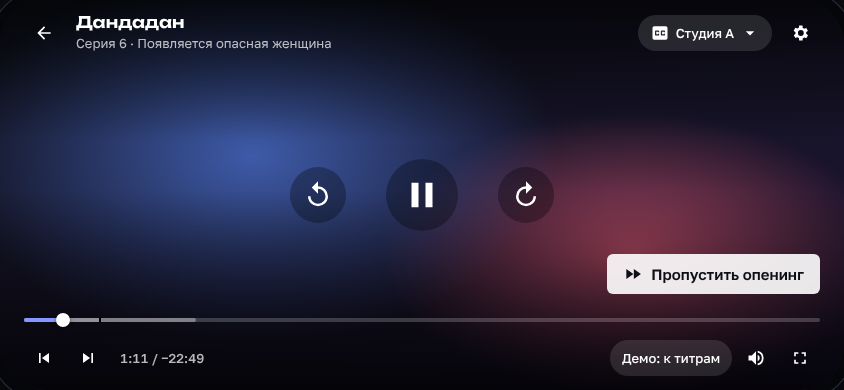
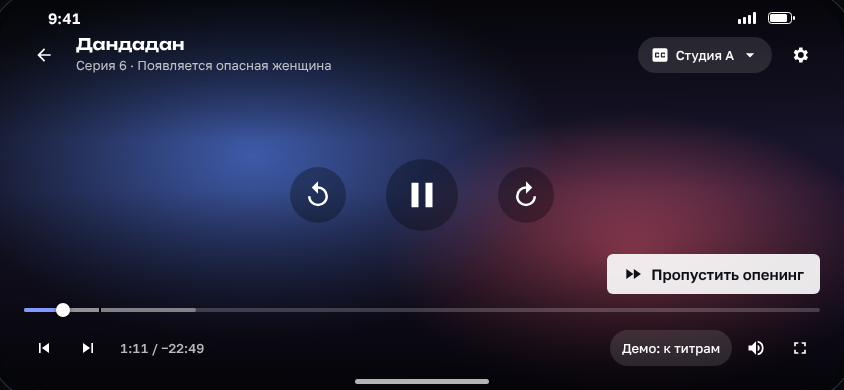
design: режим «Полный экран» в плеере на всех платформах, скриншоты
Claude-Session: https://claude.ai/code/session_014SLhsG472wUjxdzf1dwfhU

diff --git a/design/prototype/index.html b/design/prototype/index.html
@@ -371,7 +371,19 @@ h3 { font: 600 18px/24px var(--f-text); margin: 0; }
 .app.framed .sbar .sicons { display: flex; gap: 6px; align-items: center; }
 .app.framed .homebar { display: block; height: 22px; position: relative; background: var(--rail-bg, var(--bg)); }
 .app.framed .homebar::after { content: ""; position: absolute; left: 50%; bottom: 8px; width: 134px; height: 5px; margin-left: -67px; border-radius: 3px; background: var(--fg); }
-.app.framed.land .sbar, .app.framed.land .rail, .app.framed.land .homebar { display: none; }
+.app.framed.land .rail { display: none; }
+.app.framed.land .sbar { position: absolute; top: 0; left: 0; right: 0; z-index: 5; padding: 8px 48px; background: transparent; color: #FFFFFF; pointer-events: none; }
+.app.framed.land .homebar { position: absolute; left: 0; right: 0; bottom: 0; z-index: 5; background: transparent; pointer-events: none; }
+.app.framed.land .homebar::after { background: #FFFFFFB3; bottom: 6px; }
+.app.m.land:not(.fs) .pl-top { padding-top: 34px; }
+.app.m.land:not(.fs) .pl-bot { padding-bottom: 22px; }
+/* полный экран плеера: только видео и управление */
+.app.fs { grid-template-rows: minmax(0, 1fr); }
+.app.fs .titlebar, .app.fs .device > .rail, .app.fs .sbar, .app.fs .homebar { display: none !important; }
+.app.fs .device { grid-row: 1; grid-template-columns: minmax(0, 1fr); grid-template-rows: minmax(0, 1fr); }
+.app.fs .device > .main { grid-column: 1; grid-row: 1; }
+.app.fs:not(.framed) .device { background: #000; }
+.app.framed.fs .device { box-shadow: 0 0 0 10px #05060A, 0 0 0 11px #2C3144; }
 .app.m.land .device > .main { grid-row: 1 / -1; }
 
 /* ---------- общий мобильный ---------- */
@@ -542,6 +554,7 @@ const I = {
   rw:'M12 5V1L7 6l5 5V7a6 6 0 1 1-6 6H4a8 8 0 1 0 8-8z', fw:'M12 5V1l5 5-5 5V7a6 6 0 1 0 6 6h2a8 8 0 1 1-8-8z',
   vol:'M3 9v6h4l5 5V4L7 9zm13.5 3A4.5 4.5 0 0 0 14 8v8a4.5 4.5 0 0 0 2.5-4zM14 3.2v2.1a7 7 0 0 1 0 13.4v2.1a9 9 0 0 0 0-17.6z',
   full:'M7 14H5v5h5v-2H7zm-2-4h2V7h3V5H5zm12 7h-3v2h5v-5h-2zM14 5v2h3v3h2V5z',
+  full_exit:'M5 16h3v3h2v-5H5zm3-8H5v2h5V5H8zm6 11h2v-3h3v-2h-5zm2-11V5h-2v5h5V8z',
   heart:'M12 21.4 10.6 20C5.4 15.4 2 12.3 2 8.5A5.4 5.4 0 0 1 7.5 3 6 6 0 0 1 12 5a6 6 0 0 1 4.5-2A5.4 5.4 0 0 1 22 8.5c0 3.8-3.4 6.9-8.6 11.5z',
   plus:'M19 13h-6v6h-2v-6H5v-2h6V5h2v6h6z', skip:'M4 18l8.5-6L4 6zm9-12v12l8.5-6z',
   cc:'M19 4H5a2 2 0 0 0-2 2v12a2 2 0 0 0 2 2h14a2 2 0 0 0 2-2V6a2 2 0 0 0-2-2zm-8 7H9.5v-.5h-2v3h2V13H11v1a1 1 0 0 1-1 1H7a1 1 0 0 1-1-1v-4a1 1 0 0 1 1-1h3a1 1 0 0 1 1 1zm7 0h-1.5v-.5h-2v3h2V13H18v1a1 1 0 0 1-1 1h-3a1 1 0 0 1-1-1v-4a1 1 0 0 1 1-1h3a1 1 0 0 1 1 1z',
@@ -846,7 +859,7 @@ function viewTitle() {
 }
 
 /* ---------- Плеер ---------- */
-const P = { dur:1440, t:70, buf:300, playing:true, opA:50, opB:140, ui:true, hideT:null, timer:null, dubOpen:false, next:null, marked:false };
+const P = { dur:1440, t:70, buf:300, playing:true, opA:50, opB:140, ui:true, fs:false, hideT:null, timer:null, dubOpen:false, next:null, marked:false };
 function fmtT(s) { s = Math.max(0, Math.round(s)); return `${Math.floor(s/60)}:${String(s%60).padStart(2,'0')}`; }
 function viewPlayer() {
   const a = DATA.find(x => x.id === S.titleId) || DATA[0];
@@ -883,7 +896,7 @@ function viewPlayer() {
         <span class="grow"></span>
         <button class="pl-pill" type="button" id="toEnd" title="Демо: перемотать к титрам">Демо: к титрам</button>
         <button class="pl-btn" type="button" aria-label="Громкость">${ic('vol')}</button>
-        <button class="pl-btn" type="button" aria-label="Полный экран">${ic('full')}</button>
+        <button class="pl-btn" type="button" id="fsBtn" aria-pressed="${P.fs}" aria-label="${P.fs ? 'Выйти из полноэкранного режима' : 'Полный экран'}" title="${P.fs ? 'Выйти из полноэкранного режима (Esc)' : 'Полный экран (F)'}">${ic(P.fs ? 'full_exit' : 'full')}</button>
       </div>
     </div>
   </div>`;
@@ -936,6 +949,12 @@ function showNext() {
 }
 function clearNext() { if (P.next && P.next.iv) clearInterval(P.next.iv); P.next = null; const b = $('#next'); if (b) b.hidden = true; }
 function goNext() { clearNext(); P.t = 0; P.buf = 240; P.marked = false; P.playing = true; render(); }
+function toggleFs(v) {
+  P.fs = v === undefined ? !P.fs : v;
+  applyPlatform();
+  const b = $('#fsBtn'); if (b) { b.innerHTML = ic(P.fs ? 'full_exit' : 'full'); b.setAttribute('aria-pressed', P.fs); b.setAttribute('aria-label', P.fs ? 'Выйти из полноэкранного режима' : 'Полный экран'); b.title = P.fs ? 'Выйти из полноэкранного режима (Esc)' : 'Полный экран (F)'; }
+  showUi();
+}
 function showUi() {
   const pl = $('#player'); if (!pl) return;
   pl.classList.remove('hide-ui'); clearTimeout(P.hideT);
@@ -964,6 +983,8 @@ function applyPlatform() {
   app.classList.toggle('m', isMob());
   app.classList.toggle('framed', pf !== 'windows' && innerWidth > 640);
   app.classList.toggle('land', isMob() && route() === 'player');
+  if (route() !== 'player') P.fs = false;
+  app.classList.toggle('fs', P.fs);
 }
 window.addEventListener('resize', applyPlatform);
 function openSheet(title, items, onPick) {
@@ -1040,6 +1061,7 @@ document.addEventListener('click', e => {
   else if (t.id === 'fw' || d.pl === 'fw') { P.t = Math.min(P.dur, P.t + 10); playerPaint(); }
   else if (t.id === 'skip') { P.t = P.opB; playerPaint(); }
   else if (t.id === 'toEnd') { clearNext(); P.t = P.dur - 26; P.buf = P.dur; playerPaint(); }
+  else if (t.id === 'fsBtn') toggleFs();
   else if (t.id === 'nextBtn' || t.id === 'goNext') goNext();
   else if (t.id === 'cancelNext') { clearNext(); P.next = { cancelled:true }; }
   else if (t.id === 'dubBtn') { P.dubOpen = !P.dubOpen; $('#dubPop').hidden = !P.dubOpen; t.setAttribute('aria-expanded', P.dubOpen); showUi(); }
@@ -1083,6 +1105,8 @@ document.addEventListener('keydown', e => {
   if (e.key === 'ArrowRight') { P.t = Math.min(P.dur, P.t + 10); playerPaint(); }
   if (e.key.toLowerCase() === 's' && !$('#skip').hidden) { P.t = P.opB; playerPaint(); }
   if (e.key === 'N' && e.shiftKey) goNext();
+  if (e.key.toLowerCase() === 'f' && !e.ctrlKey && e.target.tagName !== 'INPUT') toggleFs();
+  if (e.key === 'Escape' && P.fs && !(P.next && P.next.iv) && !P.dubOpen) { toggleFs(false); return; }
   if (e.key === 'Escape') { if (P.next && P.next.iv) { clearNext(); P.next = { cancelled:true }; } else if (P.dubOpen) { P.dubOpen = false; $('#dubPop').hidden = true; } }
 });
 $('#themeBtn').onclick = () => {

diff --git a/design/screens.md b/design/screens.md
@@ -98,6 +98,16 @@
 - Кнопки: Пред. серия · Перемотка −10 · Пауза · +10 · След. серия · громкость · «Пропустить опенинг» (появляется в интервале OP) · полноэкранный режим.
 - Скрим `scrim` — градиент 0 → 70% сверху и снизу, текст белый (контраст ≥ 8:1 даже на светлом кадре).
 
+**Полный экран.** Кнопка справа в нижней панели (иконка `fullscreen` / `fullscreen_exit`, `aria-pressed`), клавиша F, выход — повторное нажатие или Esc (Esc сначала закрывает открытый поповер или отменяет карточку следующей серии).
+
+| | Обычный вид | Полный экран |
+|---|---|---|
+| Windows | строка заголовка окна и NavRail видны, видео в области контента | окно разворачивается на весь экран, заголовок окна и NavRail скрыты, остаются видео и оверлей плеера |
+| Android | альбомная ориентация, строка состояния и полоса жестов видны поверх видео, оверлей отступает от них | immersive: строка состояния и навигация скрыты, появляются свайпом от края и снова прячутся |
+| iOS | альбомная ориентация, строка состояния и индикатор дома видны поверх видео | строка состояния скрыта, индикатор дома приглушается (`prefersHomeIndicatorAutoHidden`), системный полноэкранный плеер AVKit не используется |
+
+Решение для кодинга: полноэкранный режим — состояние самого приложения, а не системный видеоплеер. Flutter: свой флаг `isFullscreen`, при входе `SystemChrome.setEnabledSystemUIMode(SystemUiMode.immersiveSticky)`, при выходе `SystemUiMode.edgeToEdge`; на Windows — разворот окна во весь экран средствами приложения (`window_manager.setFullScreen`), скрытие NavRail и строки заголовка в нашем дереве виджетов. В веб-прототипе браузерный Fullscreen API не используется (Safari на iOS разворачивает только `<video>`), режим имитируется скрытием панелей.
+
 **Выбор озвучки (`DubPicker`).** Поповер со списком на 1–10+ вариантов: название студии, тип (озвучка / субтитры / оригинал), доступное качество. Озвучка может прийти как аудиодорожка того же потока (переключение мгновенное) или как отдельный поток (короткая буферизация, позиция сохраняется) — для пользователя выглядит одинаково. От 7 вариантов — группы «Озвучка» / «Субтитры» и поле фильтра сверху, высота поповера не больше 60% экрана, внутри прокрутка. Один вариант — кнопка не открывает список, просто показывает название. Выбранная озвучка запоминается для тайтла.
 
 **Переход к следующей серии (`NextEpisodeCard`).** За 20 с до конца (или с начала эндинга) справа снизу появляется карточка: кадр следующей серии, «Серия 7 · Название», кольцо обратного отсчёта 10 с и кнопки «Смотреть сейчас» / «Отмена». Если серия последняя — карточка «Сезон просмотрен» с кнопкой «Оценить» и рекомендацией.
@@ -226,7 +236,7 @@
 
 ### Плеер на телефоне
 
-- Открывается в альбомной ориентации на весь экран, системные панели скрыты. Поворот обратно в портрет закрывает полный экран.
+- Открывается в альбомной ориентации. В обычном виде строка состояния и индикатор дома видны поверх видео; кнопка «Полный экран» скрывает их (см. «Полный экран» в разделе 4). Поворот обратно в портрет закрывает плеер в карточку тайтла.
 - По центру три кнопки: −10 с (56), пауза (72), +10 с (56), на подложке `#0000004D`. Внизу: таймлайн, таймкод, следующая серия, озвучка, полный экран.
 - Жесты: двойной тап по левой/правой трети — ∓10 с с волной-подсказкой; горизонтальный свайп — перемотка с превью; на Android вертикальный свайп слева — яркость, справа — громкость; на iOS громкость только системная.
 - Карточка следующей серии без кадра (280 ширина), над таймлайном. «Пропустить опенинг» там же.

diff --git a/design/README.md b/design/README.md
@@ -7,7 +7,7 @@
 | `tokens.json` | Цвета (тёмная и светлая темы), статусы списков, типографика, отступы, радиусы, сетка, анимации, состояния. Источник правды для темы |
 | `screens.md` | Каталог, Мои списки, Карточка аниме, Плеер, Вход через GitHub, Синхронизация, Поиск, Настройки, iOS и Android (§8): структура, поведение, состояния |
 | `components.md` | Компоненты, правила hover / pressed / focus / disabled / loading / empty / error и соответствие Flutter-виджетам |
-| `screenshots/` | 38 PNG: Windows 01–20 (1440×900), iOS 31–39 и Android 41–49 (390×844, плеер 844×390), обе темы |
+| `screenshots/` | 41 PNG (плеер: обычный вид и полный экран — 10/10a, 35/35a, 45/45a): Windows 01–20 (1440×900), iOS 31–39 и Android 41–49 (390×844, плеер 844×390), обе темы |
 | `prototype/index.html` | Интерактивный прототип четырёх экранов (примерные данные). Опубликован: https://claude.ai/artifact/RtfiteUewK8GpJdGGu6Vue |
 
 ## Визуальное направление
@@ -59,6 +59,10 @@
 24. **Плеер на телефоне** — только альбомная ориентация, три кнопки по центру, двойной тап ∓10 с, PiP при уходе в фон.
 25. **Английский перевод** не начинаем (решение пользователя).
 
+**2026-10-29 — полный экран в плеере (замечание пользователя)**
+
+26. **Кнопка «Полный экран» работает на всех платформах** как режим приложения: скрываются заголовок окна и NavRail (Windows), строка состояния и навигация (Android, immersive sticky), строка состояния (iOS, без системного плеера AVKit). Остаются видео и управление. Выход — повторное нажатие или Esc, клавиша F переключает. **Для кодинга:** флаг `isFullscreen` в состоянии плеера + `SystemChrome.setEnabledSystemUIMode(immersiveSticky / edgeToEdge)`, на Windows `window_manager.setFullScreen`; браузерный Fullscreen API в прототипе не используется.
+
 ## Проверено на прототипе и только описано
 
 | Что | Статус |
@@ -67,6 +71,7 @@
 | iOS: таб-бар, large title, назад, switch, segmented, action sheet статуса и языка, поиск, inset grouped настройки, вход, плеер в альбомной | проверено на прототипе, скриншоты 31–39 |
 | Android: NavigationBar, switch, segmented, filter chips, bottom sheet статуса и языка, SearchBar, плоские настройки, вход, плеер в альбомной | проверено на прототипе, скриншоты 41–49 |
 | Сворачивание large title при прокрутке, свайп «назад» на iOS, системный «назад» на Android | только описано |
+| Полный экран плеера: Windows, iOS и Android, вход кнопкой и F, выход кнопкой и Esc | проверено на прототипе, скриншоты 10/10a, 35/35a, 45/45a |
 | Жесты плеера (двойной тап, свайпы яркости и громкости), PiP, AirPlay, Cast | только описано |
 | Портретная ориентация плеера, side sheet озвучки на Android, SnackBar M3 | только описано (в прототипе — общий тост и поповер) |
 | Safe area на устройствах с вырезом в альбомной ориентации | только описано |
